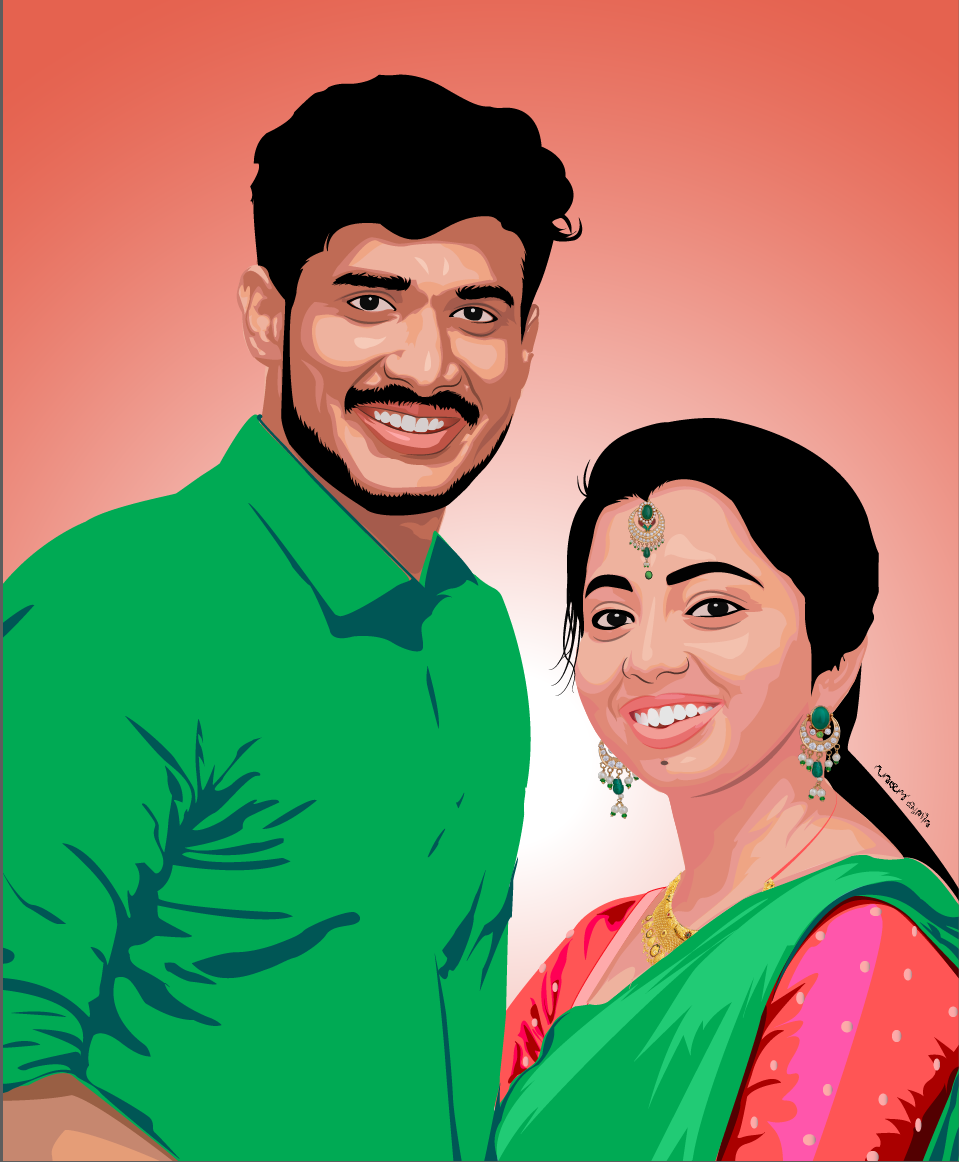
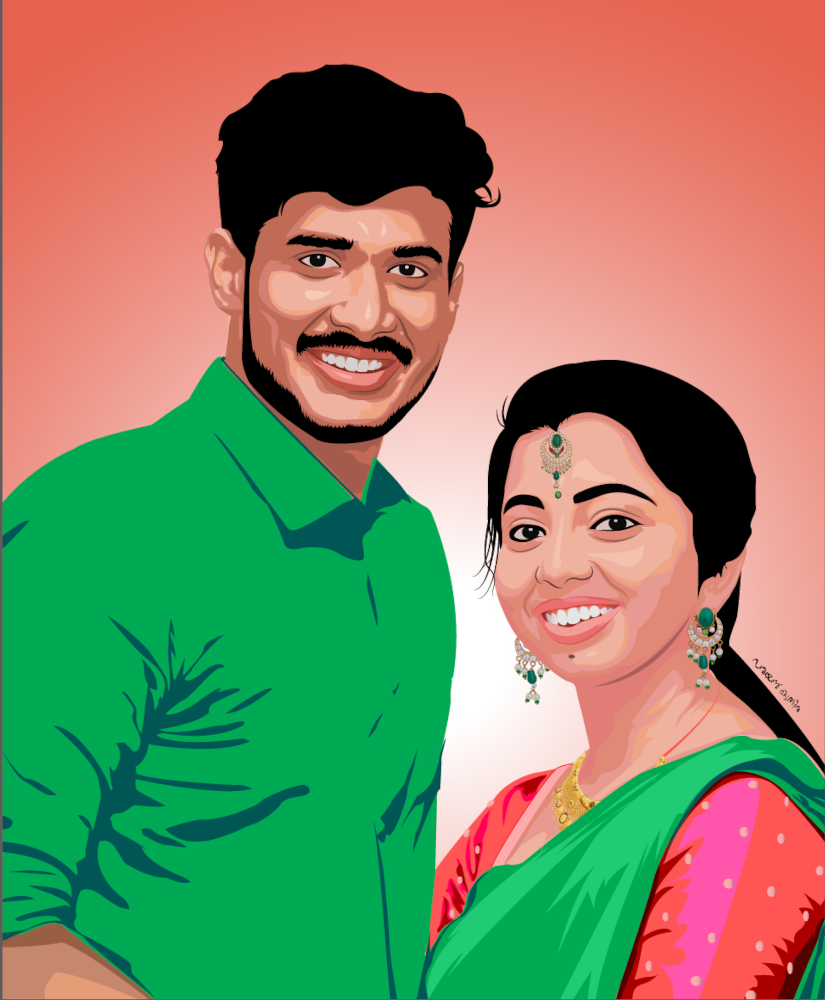
reduced resolutions of images

Changed region(s): [[0.5758, 0.527, 0.6061, 0.558]]

diff --git a/portfolio/src/Components/Projects/Projects.css b/portfolio/src/Components/Projects/Projects.css
@@ -100,7 +100,7 @@
     border:2px solid  var(--clr-secondary);
     margin-left: 40%;
     min-width:20%;
-    margin-top: -15vh;
+    margin-top: -15%;
 }
 .Projects .btnSee:hover{
     background-color: var(--clr-secondary);

diff --git a/portfolio/src/Components/Projects/Cards/ImageModal.css b/portfolio/src/Components/Projects/Cards/ImageModal.css
@@ -1,5 +1,5 @@
 .modal-content {
-    background-color: var(--clr-bg);
+    background-color: var(--clr-dark);
 }
 .modalImg{
     position: absolute;
